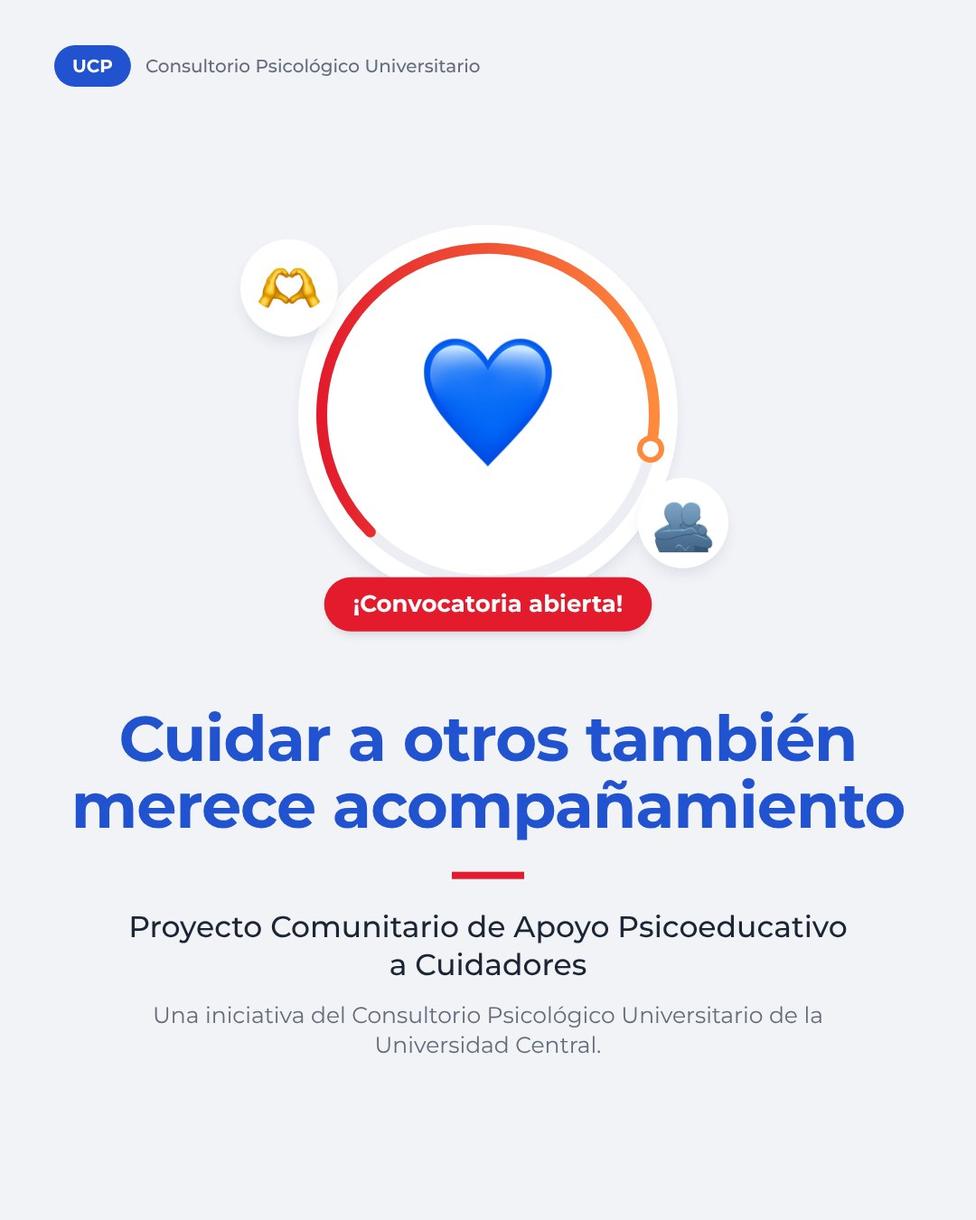
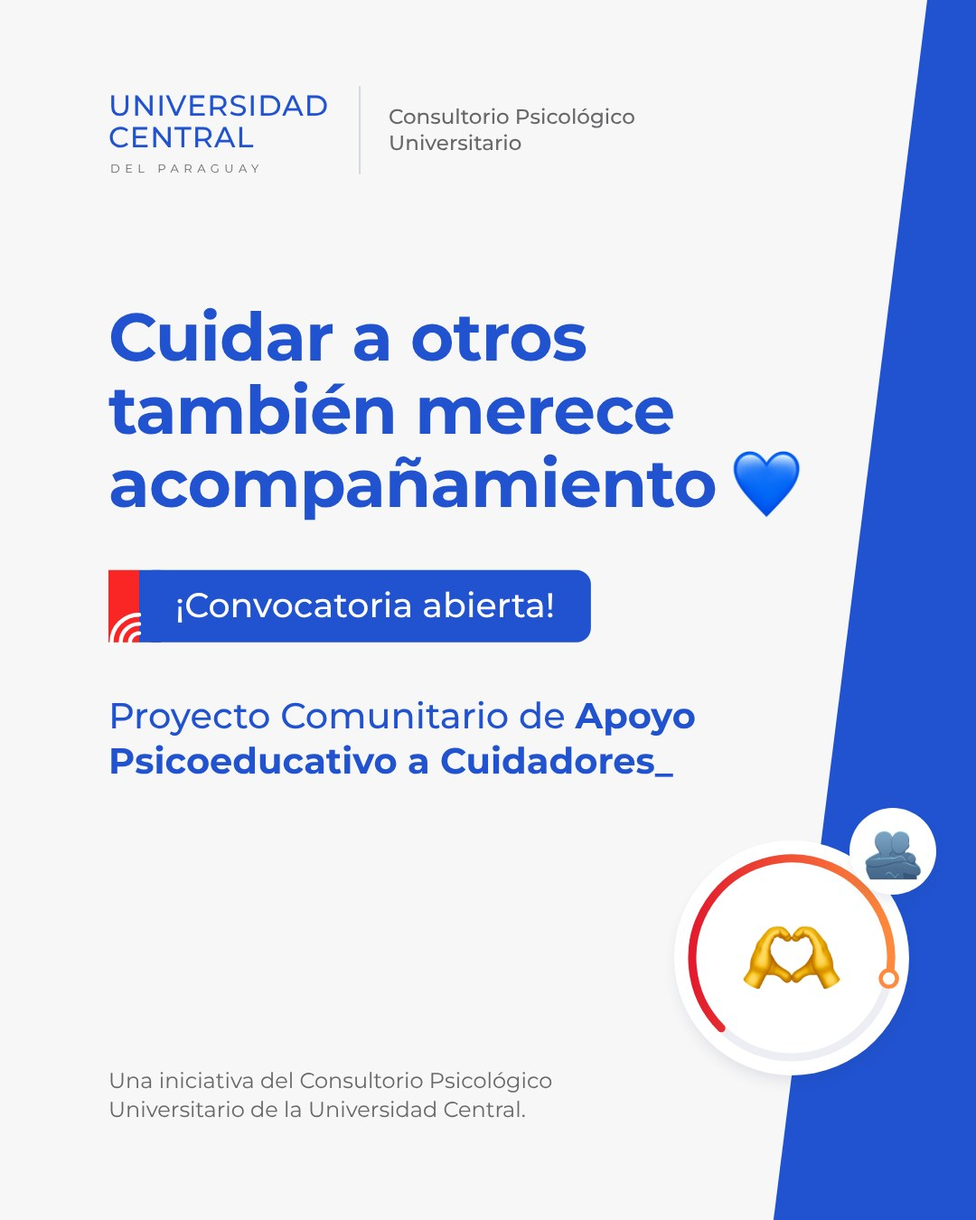
Carrusel cuidadores: híbrido con la línea del carrusel Central Next
Fondos alternados con diagonales que continúan entre placas, títulos con
peso mixto y subrayado rojo, banner con emblema, tarjetas con filete,
checklist con borde y caja translúcida, combinados con los emojis Apple,
el badge con arco degradado y las sombras de fead-infografias. La portada
usa el logo si está en la carpeta de salida (logo-ucp.png) y si no, un
rótulo de texto provisorio.

Claude-Session: https://claude.ai/code/session_015JbFP74bQhZzfu74FmqLuC

diff --git a/carruseles/apoyo-cuidadores/Carrusel_Apoyo_Cuidadores.jsx b/carruseles/apoyo-cuidadores/Carrusel_Apoyo_Cuidadores.jsx
@@ -1,16 +1,18 @@
 #target illustrator
-// Carrusel "Proyecto Comunitario de Apoyo Psicoeducativo a Cuidadores" — 7 placas de 1080×1350 con la línea gráfica de la skill
-// fead-infografias (tarjetas blancas, emojis Apple, badge con arco, Gotham), con el azul institucional #2153D0 en lugar del azul oscuro.
+// Carrusel "Proyecto Comunitario de Apoyo Psicoeducativo a Cuidadores" — 7 placas de 1080×1350.
+// Híbrido: línea del carrusel Central Next de referencia (fondos alternados, diagonales que continúan entre placas, títulos con
+// peso mixto y subrayado rojo, banner con emblema, tarjetas con filete, checklist con borde, caja translúcida) + skill
+// fead-infografias (emojis Apple, badge con arco degradado, satélites, sombras suaves, tintes). Azul institucional #2153D0.
 app.userInteractionLevel = UserInteractionLevel.DONTDISPLAYALERTS;
-// ===== CONFIG: carpeta de salida, nombre del .ai, carpeta de emojis Apple (slug.png) y encabezado de marca =====
+// ===== CONFIG: carpeta de salida, nombre del .ai, emojis Apple (slug.png) y logo =====
 var DIR = 'C:/Users/raulm/Claude/UCP/Carrusel-cuidadores/', OUT = 'Carrusel_Apoyo_Cuidadores.ai';
-var EM = 'C:/Users/raulm/.claude/skills/fead-infografias/assets/emojis-apple/', ERR = [];
-var HP = 'UCP', HT = 'Consultorio Psicológico Universitario';
-var AW = 1080, AH = 1350, MG = 60, CW = AW-2*MG, MX = AW/2;   // mesa, margen lateral, ancho útil y centro
+var EM = 'C:/Users/raulm/.claude/skills/fead-infografias/assets/emojis-apple/', ERR = [], NOTE = [];
+var LOGO = DIR+'logo-ucp.png';   // logo UCP a color (png, ai, svg o pdf); si no está, la portada usa un rótulo de texto provisorio
+var AW = 1080, AH = 1350, ML = 120, MX = AW/2, SL = 0.126;   // mesa, margen izquierdo, centro y pendiente de las diagonales
 function C(h){var c=new RGBColor();c.red=parseInt(h.substr(0,2),16);c.green=parseInt(h.substr(2,2),16);c.blue=parseInt(h.substr(4,2),16);return c;}
-var NAVY=C('2153D0'),SHD=C('1B365D'),RED=C('E31B2D'),ORG=C('FF8A3D'),BG=C('F2F3F7'),WHITE=C('FFFFFF'),INK=C('1C2536'),GRAY=C('646C7C'),
-    LINE=C('E8EBF1'),TRACK=C('ECEEF3'),SKY=C('C9D7F7'),RULE=C('4A72DA'),TBLUE=NAVY;
-var TH={navy:{m:NAVY,t:C('E9EEFB')},red:{m:RED,t:C('FDECEE')}},TINT=[TH.navy.t,TH.red.t];
+var NAVY=C('2153D0'),RED=C('FA2626'),ORG=C('FF8A3D'),BG=C('F7F7F7'),BG2=C('EEEEEE'),WHITE=C('FFFFFF'),GRAY=C('68686A'),DARK=C('3E3F43'),
+    SHD=C('1B365D'),TRACK=C('ECEEF3'),SKY=C('C9D7F7'),RULE=C('4A72DA'),LINE2=C('D5D8DE');
+var TH={navy:{m:NAVY,t:C('E7EDF9')},red:{m:RED,t:C('FDECEE')}},TINT=[TH.navy.t,TH.red.t];
 var F={b:app.textFonts.getByName('Gotham-Bold'),s:app.textFonts.getByName('Gotham-Medium'),r:app.textFonts.getByName('Gotham-Book')};
 var AX=0,AY=0,TMP,GR,N;
 function X(x){return AX+x;} function Y(y){return AY-y;}
@@ -27,19 +29,24 @@ function unb64(s){var k='ABCDEFGHIJKLMNOPQRSTUVWXYZabcdefghijklmnopqrstuvwxyz012
 function emFile(k){var f=new File(EM+k+'.png');if(f.exists||!XE[k])return f;
   var d=new Folder(Folder.temp+'/fead_emojis');if(!d.exists)d.create();f=new File(d.fullName+'/'+k+'.png');
   if(!f.exists){f.encoding='BINARY';f.open('w');f.write(unb64(XE[k]));f.close();}return f;}
-function E(P,k,cx,cy,sz){var f=emFile(k);if(!f.exists){ERR.push('emoji '+k);return;}
-  var p=P.placedItems.add();p.file=f;p.width=sz;p.height=sz;p.left=X(cx-sz/2);p.top=Y(cy-sz/2);p.name=k;p.embed();}
+function E(P,k,cx,cy,sz,rot){var f=emFile(k);if(!f.exists){ERR.push('emoji '+k);return;}
+  var p=P.placedItems.add();p.file=f;p.width=sz;p.height=sz;p.left=X(cx-sz/2);p.top=Y(cy-sz/2);p.name=k;if(rot)p.rotate(rot);p.embed();}
 
 // ---------- primitivas ----------
 function paint(p,f,s,sw){if(f){p.filled=true;p.fillColor=f;}else p.filled=false;if(s){p.stroked=true;p.strokeColor=s;p.strokeWidth=sw||1;}else p.stroked=false;return p;}
 function rr(P,x,y,w,h,r,f,s,sw){return paint(P.pathItems.roundedRectangle(Y(y),X(x),w,h,r,r),f,s,sw);}
 function ell(P,cx,cy,rx,ry,f,s,sw){return paint(P.pathItems.ellipse(Y(cy-ry),X(cx-rx),rx*2,ry*2),f,s,sw);}
 function circ(P,cx,cy,r,f,s,sw){return ell(P,cx,cy,r,r,f,s,sw);}
+function bg(P,f){rr(P,0,0,AW,AH,0,f);}
 function blur(p,b){try{p.applyEffect('<LiveEffect name="Adobe PSL Gaussian Blur"><Dict data="R blur '+b+'"/></LiveEffect>');}catch(e){ERR.push('blur '+e);}}
 function card(P,x,y,w,h,r,f){var s=rr(P,x+6,y+10,w-12,h-6,r,SHD);s.opacity=10;blur(s,18);return rr(P,x,y,w,h,r,f||WHITE);}
 function ccard(P,cx,cy,r){var s=circ(P,cx,cy+9,r-3,SHD);s.opacity=11;blur(s,16);return circ(P,cx,cy,r,WHITE);}
 function sat(P,cx,cy,r,e){ccard(P,cx,cy,r);E(P,e,cx,cy,r*1.3);}
+function scard(P,x,y,w,h,sc,fc,sh){var r=24;   // tarjeta con filete de color a la izquierda (referencia)
+  if(sh){var s=rr(P,x+6,y+10,w-12,h-6,r,SHD);s.opacity=9;blur(s,18);}
+  rr(P,x,y,20+2*r,h,r,sc);rr(P,x+20,y,w-20,h,r,fc);rr(P,x+20,y,r,h,0,fc);}
 function pts(a){var o=[];for(var i=0;i<a.length;i++)o.push([X(a[i][0]),Y(a[i][1])]);return o;}
+function poly(P,a,f){var p=P.pathItems.add();p.setEntirePath(pts(a));p.closed=true;return paint(p,f);}
 function line(P,a,s,sw,dash){var p=P.pathItems.add();p.setEntirePath(pts(a));p.filled=false;p.stroked=true;p.strokeColor=s;p.strokeWidth=sw;
   p.strokeCap=StrokeCap.ROUNDENDCAP;p.strokeJoin=StrokeJoin.ROUNDENDJOIN;if(dash)p.strokeDashes=dash;return p;}
 function arc(P,cx,cy,r,a0,a1,sw,col){var n=Math.ceil(Math.abs(a1-a0)/90),da=(a1-a0)/n,k=4/3*Math.tan(da*Math.PI/720)*r,p=P.pathItems.add();
@@ -50,7 +57,7 @@ function GC(){var g=new GradientColor();g.gradient=GR;return g;}
 
 // ---------- texto (**así** marca un tramo en negrita y color) ----------
 function sty(t,f,sz,c,ld,tr){var a=t.textRange.characterAttributes;a.textFont=f;a.size=sz;a.fillColor=c;if(ld){a.autoLeading=false;a.leading=ld;}a.tracking=tr||0;}
-function mw(s,f,sz,tr){TMP.contents=s;sty(TMP,f,sz,INK,0,tr);return TMP.width;}
+function mw(s,f,sz,tr){TMP.contents=s;sty(TMP,f,sz,DARK,0,tr);return TMP.width;}
 function mwm(s,f,hf,sz,tr,b){var a=s.split('**'),w=0;for(var k=0;k<a.length;k++)if(a[k])w+=mw(a[k],(k%2==1)!=b?hf:f,sz,tr);return w;}
 function flip(s,b){return (s.split('**').length-1)%2?!b:b;}
 function wrap(s,f,sz,w,tr,hf){var o=[],ps=s.split('\n'),b=false;hf=hf||f;   // mide los tramos **resaltados** con su fuente
@@ -66,143 +73,144 @@ function T(P,s,x,y,o){var hl=[],p='',k,j,a=(o.w?wrap(s,o.f,o.size,o.w,o.tr,o.hf|
   t.textRange.paragraphAttributes.justification=o.just=='c'?Justification.CENTER:(o.just=='r'?Justification.RIGHT:Justification.LEFT);
   t.top=Y(y);t.left=o.just=='c'?X(x)-t.width/2:(o.just=='r'?X(x)-t.width:X(x));return t;}
 function vc(t,cy){t.top=Y(cy-t.height/2);}
-function pill(P,s,x,y,o){var sz=o.size||14,h=o.h||Math.round(sz*2.2),px=o.px||14,ew=o.e?sz*1.7:0;
-  var t=T(P,s,0,0,{f:o.f||F.s,size:sz,c:o.c||WHITE,tr:o.tr}),w=t.width+2*px+ew,x0=o.anchor=='c'?x-w/2:(o.anchor=='r'?x-w:x);
-  if(o.sh){var sd=rr(P,x0+4,y+6,w-8,h-2,h/2,SHD);sd.opacity=14;blur(sd,10);sd.zOrder(ZOrderMethod.SENDBACKWARD);}
-  var r=rr(P,x0,y,w,h,h/2,o.bg||NAVY,o.st,o.sw);r.zOrder(ZOrderMethod.SENDBACKWARD);
-  if(o.e)E(P,o.e,x0+px+sz*0.65,y+h/2,sz*1.4);
-  t.left=X(x0+px+ew);vc(t,y+h/2);return {w:w,h:h,x:x0};}
+function gc(g,cy){var b=g.geometricBounds;g.translate(0,Y(cy-(b[1]-b[3])/2)-b[1]);}   // centra un grupo en vertical
 
-// ---------- estructura común ----------
-function brand(P){var p=pill(P,HP,MG,50,{f:F.b,size:20,bg:NAVY,c:WHITE,h:46,px:20});
-  var t=T(P,HT,MG+p.w+16,0,{f:F.s,size:20,c:GRAY});vc(t,73);}
-function header(P,d){brand(P);if(!d.title)return 120;var y=130,ts=d.ts||56;
-  if(d.te){circ(P,MX,y+42,42,TH.navy.t);E(P,d.te,MX,y+42,58);y+=108;}
-  var t=T(P,d.title,MX,y,{f:F.b,size:ts,c:TBLUE,just:'c',w:d.tw||CW,lead:Math.round(ts*1.1),tr:-12});
-  y+=t.height+20;rr(P,MX-36,y,72,8,0,RED);y+=8;
-  if(d.sub){y+=22;var ss=d.ss||28,s=T(P,d.sub,MX,y,{f:F.r,size:ss,c:GRAY,just:'c',w:d.sw||900,lead:Math.round(ss*1.3)});y+=s.height;}
-  return y+40;}
-function footer(P,d){if(!d.foot)return AH-50;var x=MG,w=CW;
-  var t=T(P,d.foot,x+112,0,{f:F.r,size:26,c:INK,w:w-150,lead:34});
-  var h=Math.max(112,t.height+52),y=AH-50-h;card(P,x,y,w,h,Math.min(32,h/2));
-  circ(P,x+58,y+h/2,36,TH.navy.t);E(P,d.fe||'light-bulb',x+58,y+h/2,48);
-  vc(t,y+h/2);t.zOrder(ZOrderMethod.BRINGTOFRONT);return y-30;}
-function badge(P,cx,cy,R,e,label,o){o=o||{};ccard(P,cx,cy,R);var sw=R>140?12:8,ri=R-(R>140?26:18),h=o.h||38;
+// ---------- componentes ----------
+// Título con **negritas** sobre un peso base (o.f). o.e: emoji al final; o.bar: 'w' subraya la última palabra, 'l' barra fija a la izquierda.
+function title(P,s,x,y,o){var sz=o.size,ld=Math.round(sz*1.1),f=o.f||F.b,hf=F.b,tr=-12,
+  t=T(P,s,x,y,{f:f,hf:hf,hc:o.c,size:sz,c:o.c,just:o.just,w:o.w,lead:ld,tr:tr}),ls=wrap(s,f,sz,o.w,tr,hf).split('\r'),n=ls.length,b=false,k;
+  for(k=0;k<n-1;k++)b=flip(ls[k],b);
+  var ln=ls[n-1],lw=mwm(ln,f,hf,sz,tr,b),x0=o.just=='c'?x-lw/2:x,by=y+t.height+16;
+  if(o.e)E(P,o.e,x0+lw+sz*0.75,y+(n-1)*ld+sz*0.58,sz*1.05);
+  if(o.bar=='l')rr(P,x,by+6,150,10,0,RED);
+  if(o.bar=='w'){var sp=ln.lastIndexOf(' '),wd=ln.substr(sp+1),wb=flip(ln.substr(0,sp+1),b);if(wd.indexOf('**')==0)wb=!wb;
+    wd=wd.replace(/\*\*/g,'');var pu=(/[?!.,:]+$/.exec(wd)||[''])[0],cr=wd.substr(0,wd.length-pu.length),wf=wb?hf:f,
+    pw=pu?mw(pu,wf,sz,tr):0,cw=mw(cr,wf,sz,tr);rr(P,x0+lw-pw-cw,by,cw,10,0,RED);}
+  return o.bar?by+16:y+t.height;}
+// Banner "Convocatoria abierta" de la referencia: emblema rojo con arcos + barra redondeada a la derecha.
+function banner(P,s,x,y,o){var h=o.h||80,ew=Math.round(h*0.42),px=o.px||40,sz=o.size||38,ex=o.e?sz*1.5:0,
+  t=T(P,s,0,0,{f:o.f||F.s,size:sz,c:o.c||WHITE}),w=t.width+2*px+ex;
+  rr(P,x+ew,y,w,h,16,o.bg||NAVY);rr(P,x+ew,y,24,h,0,o.bg||NAVY);rr(P,x,y,ew,h,0,RED);
+  for(var k=1;k<=3;k++)arc(P,x+ew,y+h,ew*0.3*k,180,270,ew*0.13,WHITE);
+  if(o.e)E(P,o.e,x+ew+px+sz*0.55,y+h/2,sz*1.25);
+  t.zOrder(ZOrderMethod.BRINGTOFRONT);t.left=X(x+ew+px+ex);vc(t,y+h/2);return {w:ew+w,h:h};}
+function badge(P,cx,cy,R,e,es){ccard(P,cx,cy,R);var sw=R>140?12:9,ri=R-(R>140?26:20);
   circ(P,cx,cy,ri,null,TRACK,sw);arc(P,cx,cy,ri,135,372,sw,GC());
-  var ka=372*Math.PI/180;circ(P,cx+ri*Math.cos(ka),cy+ri*Math.sin(ka),sw,WHITE,ORG,sw/2);
-  E(P,e,cx,cy-(label?h*0.25:0),R*(o.es||0.95));
-  if(label)pill(P,label,cx,cy+R-h/2,{f:o.f||F.s,size:o.size||16,bg:o.bg||NAVY,c:WHITE,h:h,px:o.px||18,anchor:'c',sh:true,e:o.e});}
+  var ka=372*Math.PI/180;circ(P,cx+ri*Math.cos(ka),cy+ri*Math.sin(ka),sw,WHITE,ORG,sw/2);E(P,e,cx,cy,R*(es||0.85));}
+function calW(P,cx,y0,w,h,mes,dia){var x0=cx-w/2,band=Math.round(h*0.28);   // calendario: banda roja con el mes y número grande
+  card(P,x0,y0,w,h,32);rr(P,x0,y0,w,band,32,RED);rr(P,x0,y0+band-34,w,34,0,RED);
+  var m=T(P,mes,cx,0,{f:F.b,size:Math.round(band*0.36),c:WHITE,just:'c',tr:120});vc(m,y0+band/2+2);
+  rr(P,x0+w*0.25-8,y0-18,16,42,8,DARK);rr(P,x0+w*0.75-8,y0-18,16,42,8,DARK);
+  var n=T(P,dia,cx,0,{f:F.b,size:Math.round(h*0.52),c:NAVY,just:'c',tr:-30});vc(n,y0+band+(h-band)/2+6);}
+function logo(P,x,y,h){var f=new File(LOGO),p,w;
+  if(f.exists){p=P.placedItems.add();p.file=f;w=p.width*h/p.height;p.width=w;p.height=h;p.left=X(x);p.top=Y(y);p.embed();return w;}
+  NOTE.push('Logo: no encontré '+LOGO+' (usé un rótulo de texto provisorio)');
+  var a=T(P,'UNIVERSIDAD\rCENTRAL',x,y+6,{f:F.s,size:32,c:NAVY,lead:35,tr:30}),b=T(P,'DEL PARAGUAY',x+2,y+a.height+14,{f:F.r,size:13,c:GRAY,tr:420});
+  return Math.max(a.width,b.width);}
 
-// ---------- placas (cada una arma su bloque y lo centra en vertical entre T0 y B0) ----------
-function portada(P,d,T0,B0){var R=d.R||210,ph=60,gap=78,g=P.groupItems.add(),ts=d.ts||70;
-  var t=T(g,d.h1,MX,0,{f:F.b,size:ts,c:TBLUE,just:'c',w:CW,lead:Math.round(ts*1.06),tr:-15}),y=t.height+30;
-  rr(g,MX-40,y,80,8,0,RED);y+=8+34;
-  var p=T(g,d.proj,MX,y,{f:F.s,size:33,c:INK,just:'c',w:820,lead:42});y+=p.height+20;
-  y+=T(g,d.ini,MX,y,{f:F.r,size:25,c:GRAY,just:'c',w:760,lead:33}).height;
-  var cy=T0+(B0-T0-(2*R+ph/2+gap+y))/2+R;
-  badge(P,MX,cy,R,d.ce,d.cl,{bg:RED,f:F.b,size:26,h:ph,px:32,es:0.72});
-  sat(P,MX-R-10,cy-R+70,54,'heart-hands');sat(P,MX+R+6,cy+R-90,50,'people-hugging');
-  g.translate(0,-(cy+R+ph/2+gap));}
+// ---------- placas ----------
+function s1(P,d){bg(P,BG);poly(P,[[1026,0],[AW,0],[AW,AH],[1026-SL*AH,AH]],NAVY);   // banda diagonal que sigue en la placa 2
+  var lw=logo(P,ML,92,104);line(P,[[ML+lw+34,96],[ML+lw+34,192]],LINE2,2);
+  var m=T(P,d.marca,ML+lw+66,0,{f:F.s,size:23,c:GRAY,lead:29});vc(m,144);
+  var y=title(P,d.h1,ML,330,{size:74,c:NAVY,w:800,e:d.te})+50;
+  banner(P,d.cl,ML,y,{size:38,h:80});y+=80+58;
+  T(P,d.sub,ML,y,{f:F.s,size:40,c:NAVY,w:720,lead:50,hc:NAVY});
+  T(P,d.ini,ML,1182,{f:F.r,size:24,c:GRAY,w:560,lead:32});
+  badge(P,876,1060,130,d.ce);sat(P,876+112,1060-118,48,'people-hugging');}
 
-function espacio(P,d,T0,B0){var R=d.R||140,ph=50,gap=56,x=MG,w=CW,pad=54,tw=w-2*pad,g=P.groupItems.add();
-  var a=T(g,d.txt,x+pad,0,{f:F.r,size:28,c:INK,w:tw,lead:39}),y=a.height+32;
-  line(g,[[x+pad,y],[x+w-pad,y]],LINE,1.8);y+=32;
-  var u=T(g,d.cierre,x+pad+96,y,{f:F.s,size:26,c:NAVY,w:tw-96,lead:34}),uh=Math.max(u.height,76);vc(u,y+uh/2);
-  circ(g,x+pad+38,y+uh/2,38,TH.navy.t);E(g,d.ee,x+pad+38,y+uh/2,50);y+=uh;
-  var ch=y+2*pad,cy=T0+(B0-T0-(2*R+ph/2+gap+ch))/2+R,y0=cy+R+ph/2+gap;
-  badge(P,MX,cy,R,d.ce,d.cl,{e:d.cle,size:22,h:ph,px:22,es:0.8});
-  g.translate(0,-(y0+pad));card(P,x,y0,w,ch,32);g.zOrder(ZOrderMethod.BRINGTOFRONT);}
+function s2(P,d){bg(P,NAVY);poly(P,[[AW,96/SL],[AW,AH],[AW+96-SL*AH,AH]],WHITE);   // cuña blanca que sigue en la placa 3
+  var y=title(P,d.title,ML,150,{size:68,c:WHITE,w:840,e:d.te,bar:'l'});
+  var p=T(P,d.txt,ML,y+56,{f:F.r,size:34,c:WHITE,w:820,lead:48,hc:WHITE});y+=56+p.height+56;
+  for(var i=0;i<d.facts.length;i++){var ft=T(P,d.facts[i][1],0,0,{f:F.r,size:32,c:GRAY,hc:NAVY}),fw=ft.width+190;   // tarjetas de dato (referencia)
+    scard(P,ML,y,fw,100,RED,WHITE,false);E(P,d.facts[i][0],ML+86,y+50,58);ft.zOrder(ZOrderMethod.BRINGTOFRONT);ft.left=X(ML+140);vc(ft,y+50);y+=120;}
+  var u=T(P,d.cierre,ML+150,0,{f:F.s,size:31,c:WHITE,w:650,lead:41}),h=Math.max(u.height+96,170),by=AH-110-h;
+  var bx=rr(P,ML-10,by,850,h,32,WHITE);bx.opacity=12;circ(P,ML+66,by+h/2,50,WHITE);E(P,d.ee,ML+66,by+h/2,64);
+  u.zOrder(ZOrderMethod.BRINGTOFRONT);vc(u,by+h/2);}
 
-function gridV(P,x,y,w,h,c,i){card(P,x,y,w,h,32);var g=P.groupItems.add(),cx=x+w/2,ts=c.ts||32;circ(g,cx,y+62,60,TINT[i%2]);E(g,c.e,cx,y+62,82);
-  var t=T(g,c.t,cx,y+150,{f:F.b,size:ts,c:NAVY,just:'c',w:w-44,lead:Math.round(ts*1.15)});
-  if(c.d)T(g,c.d,cx,y+150+t.height+10,{f:F.r,size:25,c:GRAY,just:'c',w:w-54,lead:32});
-  var b=g.geometricBounds;g.translate(0,Y(y+(h-(b[1]-b[3]))/2)-b[1]);}
-function gridR(P,x,y,w,h,c,i){card(P,x,y,w,h,32);var g=P.groupItems.add(),tx=x+176,tw=w-206;
-  var t=T(g,c.t,tx,0,{f:F.b,size:c.ts||32,c:NAVY,w:tw,lead:38}),bh=t.height;
-  if(c.d){var u=T(g,c.d,tx,bh+8,{f:F.r,size:26,c:GRAY,w:tw,lead:34});bh+=8+u.height;}
-  g.translate(0,-(y+(h-bh)/2));circ(P,x+92,y+h/2,60,TINT[i%2]);E(P,c.e,x+92,y+h/2,80);}
-function grid(P,d,T0,B0){var cs=d.cards,cols=d.cols,rows=Math.ceil(cs.length/cols),gap=d.gap||24,fn=d.card=='r'?gridR:gridV;
-  var cw=(CW-(cols-1)*gap)/cols,ch=Math.min((B0-T0-(rows-1)*gap)/rows,d.maxH||9999),tot=rows*ch+(rows-1)*gap,oy=T0+(B0-T0-tot)/2;
-  for(var i=0;i<cs.length;i++){if(d.cts&&!cs[i].ts)cs[i].ts=d.cts;fn(P,MG+(i%cols)*(cw+gap),oy+Math.floor(i/cols)*(ch+gap),cw,ch,cs[i],i);}}
+function s3(P,d){bg(P,WHITE);poly(P,[[0,0],[96,0],[0,96/SL]],NAVY);
+  var y=title(P,d.title,MX,150,{size:66,c:NAVY,f:F.r,just:'c',w:900,bar:'w'});
+  var s=T(P,d.sub,MX,y+42,{f:F.s,size:34,c:NAVY,just:'c'});y+=42+s.height+54;
+  for(var i=0;i<d.items.length;i++){var it=d.items[i],ch=164,x=110,w=860,cy=y+ch/2;scard(P,x,y,w,ch,RED,WHITE,true);
+    rr(P,x+54,cy-48,96,96,24,TINT[i%2]);E(P,it[0],x+102,cy,64);
+    var g=P.groupItems.add(),a=T(g,it[1],x+186,0,{f:F.r,size:33,c:GRAY,w:w-220,lead:40,hc:NAVY});
+    T(g,it[2],x+186,a.height+8,{f:F.r,size:26,c:GRAY,w:w-220,lead:33});gc(g,cy);y+=ch+26;}
+  T(P,d.foot,MX,y+44,{f:F.s,size:30,c:NAVY,just:'c',w:900,lead:40,hc:NAVY});}
 
-function listas(P,d,T0,B0){var cs=d.cols,n=cs.length,gap=30,hh=88,nr=0,tot=(n-1)*gap,i,j;for(i=0;i<n;i++)nr+=cs[i].rows.length;
-  var rowH=Math.min((B0-T0-(n-1)*gap-n*(hh+48))/nr,d.maxRow||92),y;for(i=0;i<n;i++)tot+=hh+48+cs[i].rows.length*rowH;
-  y=T0+(B0-T0-tot)/2;
-  for(i=0;i<n;i++){var c=cs[i],th=TH[c.c||'navy'],h=hh+48+c.rows.length*rowH,hy=y+14+hh/2,x=MG,w=CW,cr=32,ry=y+14+hh+17;
-    card(P,x,y,w,h,32);rr(P,x+14,y+14,w-28,hh,24,th.m);circ(P,x+66,hy,32,WHITE);E(P,c.e,x+66,hy,44);
-    var t=T(P,c.t,x+118,0,{f:F.b,size:34,c:WHITE});vc(t,hy);
-    for(j=0;j<c.rows.length;j++){var r=c.rows[j],cy=ry+rowH*(j+0.5),cx=x+40+cr;
-      if(j>0)line(P,[[x+36,ry+rowH*j],[x+w-36,ry+rowH*j]],LINE,1.6);
-      circ(P,cx,cy,cr,th.t);E(P,r[0],cx,cy,cr*1.3);
-      var u=T(P,r[1],cx+cr+26,0,{f:F.s,size:d.rt||29,c:INK,w:w-(cx+cr+26-x)-36,lead:36});vc(u,cy);}
-    y+=h+gap;}}
+function s4(P,d){bg(P,WHITE);
+  var y=title(P,d.title,MX,130,{size:66,c:NAVY,f:F.r,just:'c',w:900,bar:'w'})+64;
+  for(var i=0;i<d.cols.length;i++){var c=d.cols[i],n=c.rows.length,rh=64,x=80,w=920,h=44+80+14+n*rh+36,hy=y+44+40;
+    scard(P,x,y,w,h,TH[c.c].m,BG2,false);circ(P,x+98,hy,40,WHITE);E(P,c.e,x+98,hy,54);
+    var t=T(P,c.t,x+158,0,{f:F.b,size:40,c:NAVY});vc(t,hy);
+    for(var j=0;j<n;j++){var cy=y+44+80+14+rh*(j+0.5);E(P,c.rows[j][0],x+178,cy,42);var u=T(P,c.rows[j][1],x+222,0,{f:F.r,size:31,c:GRAY});vc(u,cy);}
+    y+=h+32;}}
 
-function fecha(P,d,T0,B0){var w=440,h=460,band=130,g=P.groupItems.add();
-  var a=T(g,d.pre,MX,0,{f:F.s,size:34,c:GRAY,just:'c'}),cal=a.height+54,y=cal+h+56;   // el calendario va entre el rótulo y el texto
-  var c=T(g,d.txt,MX,y,{f:F.r,size:28,c:INK,just:'c',w:860,lead:38});y+=c.height+40;
-  pill(g,d.cta,MX,y,{f:F.b,size:27,bg:RED,c:WHITE,h:68,px:34,anchor:'c',sh:true});y+=68;
-  var top=T0+(B0-T0-y)/2,x0=MX-w/2,y0=top+cal;g.translate(0,-top);
-  card(P,x0,y0,w,h,40);rr(P,x0,y0,w,band,40,NAVY);rr(P,x0,y0+band-44,w,44,0,NAVY);
-  var m=T(P,d.mes,MX,0,{f:F.b,size:40,c:WHITE,just:'c',tr:120});vc(m,y0+band/2+4);
-  rr(P,x0+100,y0-24,22,52,11,RED);rr(P,x0+w-122,y0-24,22,52,11,RED);
-  var n=T(P,d.dia,MX,0,{f:F.b,size:230,c:RED,just:'c',tr:-30});vc(n,y0+band+(h-band)/2+8);
-  sat(P,x0+w-4,y0+h-8,52,'alarm-clock');}
+function s5(P,d){bg(P,BG);
+  var y=title(P,d.title,ML,130,{size:56,c:NAVY,f:F.r,w:860,e:d.te,bar:'w'});
+  var s=T(P,d.sub,ML,y+40,{f:F.s,size:33,c:NAVY,w:840,lead:43});y+=40+s.height+50;
+  var n=d.items.length,rh=108,pad=38,h=2*pad+n*rh,x=80,w=920,b=card(P,x,y,w,h,40);b.stroked=true;b.strokeColor=NAVY;b.strokeWidth=1.6;
+  for(var i=0;i<n;i++){var cy=y+pad+rh*(i+0.5);rr(P,x+62,cy-42,84,84,22,TINT[0]);E(P,d.items[i][0],x+104,cy,58);
+    var t=T(P,d.items[i][1],x+186,0,{f:F.r,size:33,c:GRAY});vc(t,cy);}
+  T(P,d.foot,ML,y+h+60,{f:F.b,size:32,c:NAVY,w:860,lead:42});}
 
-function cta(P,d,T0,B0){var x=MG,y=T0+10,w=CW,h=AH-50-y,R=d.R||165,sh=150,ts=d.ts||54,g=P.groupItems.add();
-  var t=T(g,d.h1,MX,0,{f:F.b,size:ts,c:WHITE,just:'c',w:w-80,lead:Math.round(ts*1.1),tr:-15}),yy=t.height+28;
-  rr(g,MX-40,yy,80,8,0,RED);yy+=8+32;
-  var b=T(g,d.body,MX,yy,{f:F.r,size:28,c:WHITE,just:'c',w:820,lead:38,hc:WHITE});yy+=b.height+44;
-  pill(g,d.cta,MX,yy,{f:F.b,size:27,bg:WHITE,c:NAVY,h:70,px:32,e:'writing-hand',anchor:'c',sh:true});yy+=70;
-  var cy=y+(h-sh-(2*R+60+yy))/2+R;   // badge + texto centrados sobre la firma
-  card(P,x,y,w,h,40,NAVY);badge(P,MX,cy,R,d.ce,null,{es:0.82});
-  sat(P,MX+R+2,cy-R+50,52,'graduation-cap');sat(P,MX-R-2,cy+R-60,48,'heart-hands');
-  g.translate(0,-(cy+R+60));g.zOrder(ZOrderMethod.BRINGTOFRONT);
-  var ly=y+h-sh;line(P,[[x+70,ly],[x+w-70,ly]],RULE,1.6);
-  var s1=T(P,d.s1,MX,ly+36,{f:F.b,size:27,c:WHITE,just:'c'});T(P,d.s2,MX,ly+36+s1.height+8,{f:F.r,size:23,c:SKY,just:'c'});}
+function s6(P,d){bg(P,BG2);
+  var y=title(P,d.title,MX,110,{size:62,c:NAVY,f:F.r,just:'c',w:700,bar:'w'});
+  E(P,'hourglass-not-done',178,200,150,14);E(P,'alarm-clock',905,250,150,-12);   // emojis inclinados a los lados, como los calendarios de la referencia
+  var top=y+60,x=60,w=960,pad=56,cw=300,chh=330,g=P.groupItems.add();
+  var a=T(g,d.pre,MX,0,{f:F.s,size:34,c:WHITE,just:'c'}),yy=a.height+54,cal=yy;yy+=chh+52;
+  var c=T(g,d.txt,MX,yy,{f:F.r,size:30,c:WHITE,just:'c',w:860,lead:42,hc:WHITE});yy+=c.height+46;
+  var wy=yy,h=yy+112+2*pad;card(P,x,top,w,h,56,NAVY);g.translate(0,-(top+pad));g.zOrder(ZOrderMethod.BRINGTOFRONT);
+  calW(P,MX,top+pad+cal,cw,chh,d.mes,d.dia);
+  var ay=top+pad+wy,ax=130;scard(P,ax,ay,820,112,RED,WHITE,false);E(P,'warning',ax+104,ay+56,72);
+  var t=T(P,d.cta,ax+176,0,{f:F.r,size:35,c:NAVY,hc:NAVY});vc(t,ay+56);}
+
+function s7(P,d){bg(P,NAVY);poly(P,[[0,0],[170,0],[0,AH]],BG2);   // cuña gris que viene de la placa 6
+  var xl=200;badge(P,810,290,150,d.ce);sat(P,810+140,290-120,52,'graduation-cap');sat(P,810-148,290+118,46,'heart-hands');
+  var y=title(P,d.h1,xl,500,{size:62,c:WHITE,w:780,bar:'l'});
+  var b=T(P,d.body,xl,y+50,{f:F.r,size:32,c:WHITE,w:800,lead:44,hc:WHITE});y+=50+b.height+50;
+  banner(P,d.cta,xl,y,{size:30,h:78,bg:WHITE,c:NAVY,f:F.b,px:30,e:'writing-hand'});
+  var ly=1165;line(P,[[xl,ly],[AW-100,ly]],RULE,1.6);
+  var s1t=T(P,d.s1,xl,ly+30,{f:F.b,size:28,c:WHITE});T(P,d.s2,xl,ly+30+s1t.height+6,{f:F.r,size:24,c:SKY});}
 
 // ---------- contenido ----------
 var DATA=[
-{name:'01 Portada',type:'portada',ce:'blue-heart',cl:'¡Convocatoria abierta!',
- h1:'Cuidar a otros también\nmerece acompañamiento',
- proj:'Proyecto Comunitario de Apoyo Psicoeducativo a Cuidadores',
- ini:'Una iniciativa del Consultorio Psicológico Universitario de la Universidad Central.'},
-{name:'02 De que se trata',type:'espacio',te:'handshake',title:'Un espacio para acompañar\na quienes cuidan',ce:'heart-hands',cl:'Espacio virtual',cle:'laptop',
+{name:'01 Portada',type:'s1',marca:'Consultorio Psicológico\rUniversitario',h1:'Cuidar a otros\ntambién merece\nacompañamiento',te:'blue-heart',
+ cl:'¡Convocatoria abierta!',sub:'Proyecto Comunitario de **Apoyo Psicoeducativo a Cuidadores_**',
+ ini:'Una iniciativa del Consultorio Psicológico Universitario de la Universidad Central.',ce:'heart-hands'},
+{name:'02 De que se trata',type:'s2',te:'handshake',title:'Un espacio\npara acompañar\na quienes cuidan',
  txt:'El proyecto busca brindar **acompañamiento psicoeducativo**, a través de un **espacio virtual**, a personas que tienen a su cargo el cuidado de familiares o de quienes necesitan asistencia.',
- cierre:'Una propuesta que pone en el centro el bienestar de quienes dedican parte de su vida a cuidar de otros.',ee:'blue-heart'},
-{name:'03 A quienes esta dirigido',type:'grid',card:'r',cols:1,maxH:200,te:'graduation-cap',title:'¿Quiénes pueden sumarse\nal proyecto?',sub:'La convocatoria está dirigida a:',cards:[
- {e:'brain',t:'Estudiantes de Psicología',d:'De los últimos años de la carrera.'},
- {e:'teacher',t:'Estudiantes de Educación',d:'De los últimos años de la carrera.'},
- {e:'briefcase',t:'Estudiantes en prácticas',d:'En cualquiera de estas carreras.'}],
- foot:'Una oportunidad para vincular tu formación académica con una iniciativa de apoyo a la comunidad.',fe:'link'},
-{name:'04 Asignaturas vinculadas',type:'listas',te:'books',title:'¿Qué materias forman\nparte del proyecto?',cols:[
+ cierre:'Una propuesta que pone en el centro el bienestar de quienes dedican parte de su vida a cuidar de otros.',ee:'blue-heart',facts:[['brain','Acompañamiento **psicoeducativo**'],['laptop','A través de un **espacio virtual**']]},
+{name:'03 A quienes esta dirigido',type:'s3',title:'¿Quiénes pueden\n**sumarse** al proyecto?',sub:'La convocatoria está dirigida a:',items:[
+ ['brain','Estudiantes de **Psicología**','De los últimos años de la carrera.'],
+ ['teacher','Estudiantes de **Educación**','De los últimos años de la carrera.'],
+ ['briefcase','Estudiantes **en prácticas**','En cualquiera de estas carreras.']],
+ foot:'Una oportunidad para vincular tu formación académica con una iniciativa de **apoyo a la comunidad.**'},
+{name:'04 Asignaturas vinculadas',type:'s4',title:'¿Qué **materias** forman\nparte del proyecto?',cols:[
  {t:'Psicología',e:'brain',c:'navy',rows:[['clipboard','Evaluación Psicológica'],['school','Práctica 1 Educacional'],['speech-balloon','Práctica 2 Clínica'],['magnifying-glass-tilted-left','Psicodiagnóstico']]},
  {t:'Educación',e:'teacher',c:'red',rows:[['open-book','Psicología General'],['student','Psicología de la Educación'],['people-hugging','Educación Inclusiva']]}]},
-{name:'05 A quienes buscamos acompanar',type:'grid',cols:2,maxH:300,te:'blue-heart',ts:50,
- title:'Detrás de cada persona que\nnecesita cuidados, hay alguien\nque también necesita apoyo',
- sub:'Este espacio está pensado para quienes cuidan a personas que requieren asistencia por:',cards:[
- {e:'face-with-thermometer',t:'Enfermedad'},{e:'wheelchair-symbol',t:'Discapacidad'},{e:'crutch',t:'Dependencia funcional'},{e:'older-person',t:'Envejecimiento'}],
- foot:'Porque quienes cuidan también necesitan sentirse acompañados.',fe:'heart-hands'},
-{name:'06 Fechas importantes',type:'fecha',te:'hourglass-not-done',title:'¡Todavía estás a tiempo\nde sumarte!',
- pre:'Inscripciones abiertas hasta el',dia:'26',mes:'OCTUBRE',
- txt:'Si estudiás **Psicología** o **Educación** y cumplís con el perfil de la convocatoria, esta es tu oportunidad de participar.',cta:'¡No dejes pasar la fecha!'},
-{name:'07 Cierre',type:'cta',ce:'blue-heart',h1:'Tu formación también\npuede marcar una diferencia',
- body:'Sumate al **Proyecto Comunitario de Apoyo Psicoeducativo a Cuidadores** y formá parte de una iniciativa que busca acompañar a quienes cuidan.',
+{name:'05 A quienes buscamos acompanar',type:'s5',te:'blue-heart',title:'Detrás de cada persona que necesita cuidados, **hay alguien que también necesita apoyo**',
+ sub:'Este espacio está pensado para quienes cuidan a personas que requieren asistencia por:',items:[
+ ['face-with-thermometer','Enfermedad.'],['wheelchair-symbol','Discapacidad.'],['crutch','Dependencia funcional.'],['older-person','Envejecimiento.']],
+ foot:'Porque quienes cuidan también necesitan sentirse acompañados.'},
+{name:'06 Fechas importantes',type:'s6',title:'**¡Todavía estás**\n**a tiempo** de\nsumarte!',pre:'Inscripciones abiertas hasta el',mes:'OCTUBRE',dia:'26',
+ txt:'Si estudiás **Psicología** o **Educación**\ny cumplís con el perfil de la convocatoria,\nesta es tu oportunidad de participar.',cta:'**¡No dejes pasar** la fecha!'},
+{name:'07 Cierre',type:'s7',ce:'blue-heart',h1:'Tu formación también puede marcar una diferencia',
+ body:'Sumate al **Proyecto Comunitario de Apoyo\nPsicoeducativo a Cuidadores** y formá\nparte de una iniciativa que busca\nacompañar a quienes cuidan.',
  cta:'¡Inscribite y sé parte del proyecto!',s1:'Universidad Central del Paraguay',s2:'Consultorio Psicológico Universitario'}
 ];
 
-// ---------- construcción ----------
-var BUILD={portada:portada,espacio:espacio,grid:grid,listas:listas,fecha:fecha,cta:cta};
+// ---------- construcción (mesas pegadas, para ver la continuidad de las diagonales) ----------
+var BUILD={s1:s1,s2:s2,s3:s3,s4:s4,s5:s5,s6:s6,s7:s7};
 N=DATA.length;
 var fo=new Folder(DIR);if(!fo.exists)fo.create();
-var doc=app.documents.add(DocumentColorSpace.RGB,AW,AH,N,DocumentArtboardLayout.GridByRow,60,N);
+var doc=app.documents.add(DocumentColorSpace.RGB,AW,AH,N,DocumentArtboardLayout.GridByRow,0,N);
 try{var ro=doc.rasterEffectSettings;ro.resolution=150;doc.rasterEffectSettings=ro;}catch(e){ERR.push('res '+e);}
 GR=doc.gradients.add();GR.name='FEaD Rojo-Naranja';GR.type=GradientType.LINEAR;GR.gradientStops[0].color=RED;GR.gradientStops[1].color=ORG;
 var tmpL=doc.layers[0];tmpL.name='tmp';TMP=tmpL.textFrames.add();TMP.contents='x';
 for(var i=0;i<N;i++){var d=DATA[i],ab=doc.artboards[i];ab.name=d.name;var r=ab.artboardRect;AX=r[0];AY=r[1];
   var L=doc.layers.add();L.name=d.name;
-  try{rr(L,0,0,AW,AH,0,BG);var y0=header(L,d),y1=footer(L,d);BUILD[d.type](L,d,y0,y1);}catch(e){ERR.push(d.name+': '+e+' @'+e.line);}}
+  try{BUILD[d.type](L,d);}catch(e){ERR.push(d.name+': '+e+' @'+e.line);}}
 TMP.remove();tmpL.remove();
 doc.saveAs(new File(DIR+OUT));
 app.userInteractionLevel=UserInteractionLevel.DISPLAYALERTS;
-var MSG='OK '+N+' placas'+(ERR.length?' | '+ERR.join(' || '):'')+'\rGuardado en '+DIR+OUT;
+var MSG='OK '+N+' placas'+(ERR.length?' | '+ERR.join(' || '):'')+(NOTE.length?'\r'+NOTE.join('\r'):'')+'\rGuardado en '+DIR+OUT;
 alert(MSG);MSG;
